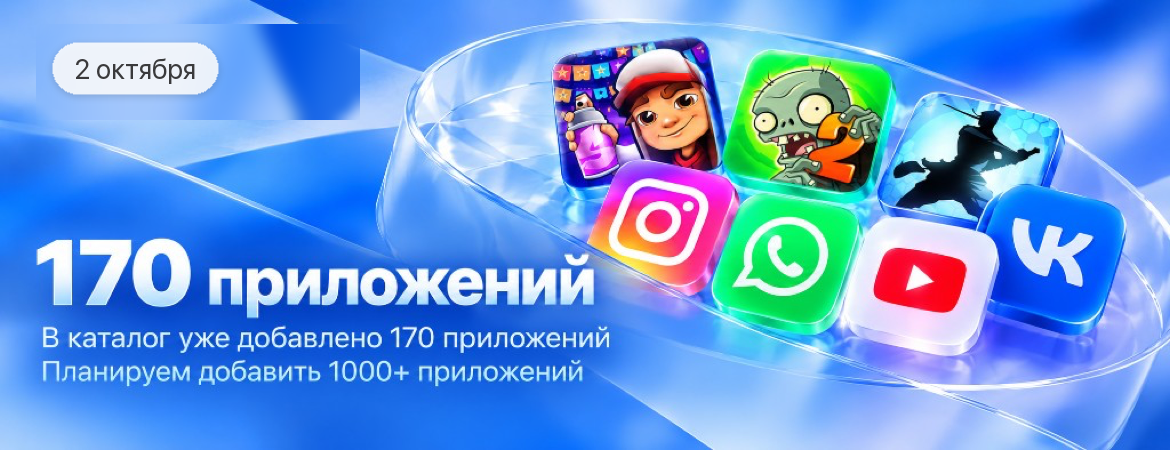
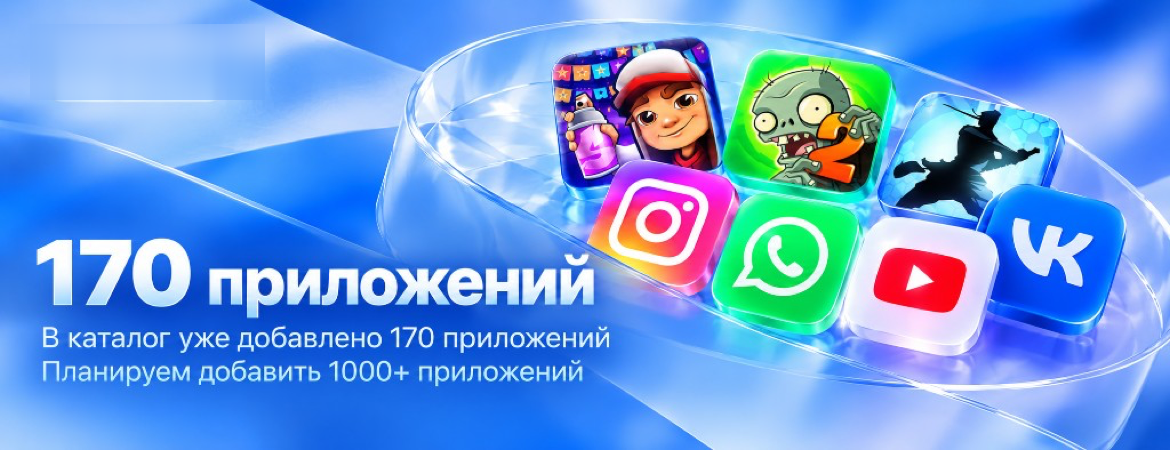
Remove news date capsules from covers and CSS.

Changed region(s): [[0.0308, 0.0311, 0.3077, 0.28]]

diff --git a/d0e4/news.css b/d0e4/news.css
@@ -133,17 +133,12 @@ a.card:active { transform: scale(0.97); }
 }
 
 .copy .date {
-  display: inline-flex;
-  align-items: center;
-  margin-top: 8px;
-  padding: 5px 11px;
-  border-radius: 999px;
-  background: rgba(120, 120, 128, 0.12);
+  display: block;
+  margin-top: 3px;
+  font-size: 14px;
+  line-height: 1.25;
   color: var(--date);
-  font-size: 12px;
-  font-weight: 510;
-  line-height: 1.2;
-  letter-spacing: -0.08px;
+  font-weight: 400;
 }
 
 .copy p {
@@ -176,17 +171,9 @@ article {
 }
 
 article .date {
-  display: inline-flex;
-  align-items: center;
-  margin: 0 0 12px;
-  padding: 5px 11px;
-  border-radius: 999px;
-  background: rgba(120, 120, 128, 0.12);
+  margin: 0 0 8px;
   color: var(--date);
-  font-size: 12px;
-  font-weight: 510;
-  line-height: 1.2;
-  letter-spacing: -0.08px;
+  font-size: 15px;
 }
 
 article h1 {
@@ -235,10 +222,6 @@ article li {
 
 @media (prefers-color-scheme: dark) {
   .hero { background: #2c2c2e; }
-  .copy .date,
-  article .date {
-    background: rgba(235, 235, 245, 0.14);
-  }
 }
 
 @media (min-width: 768px) {
